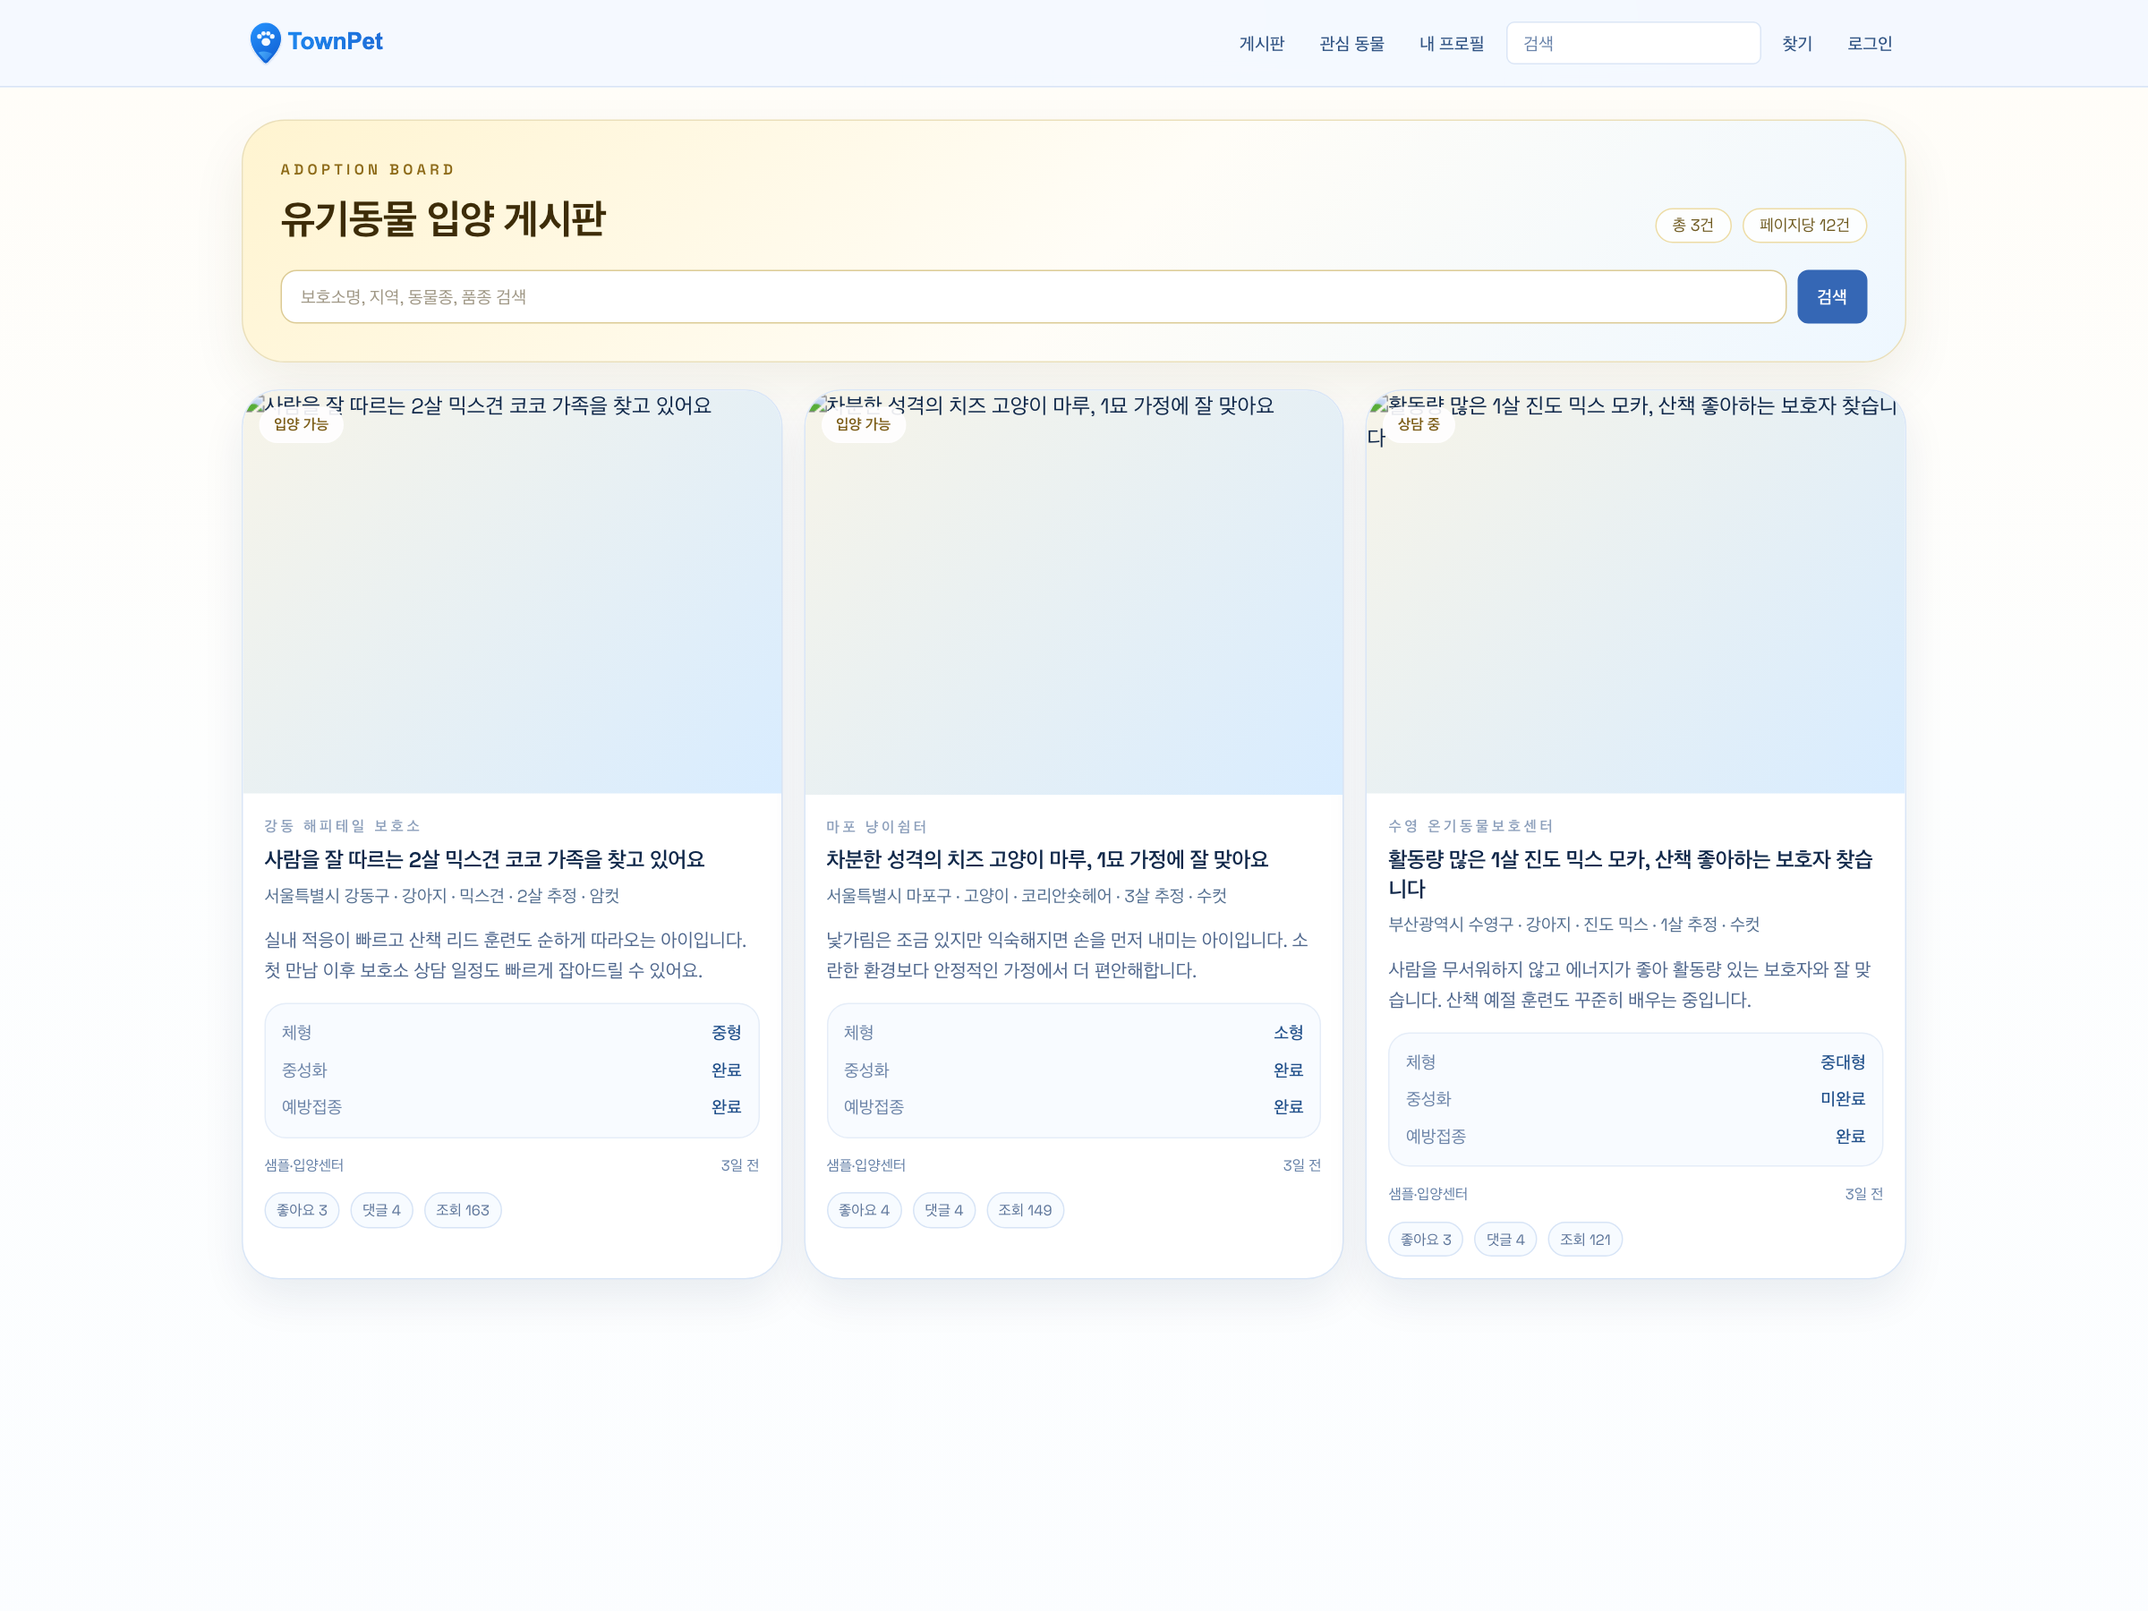
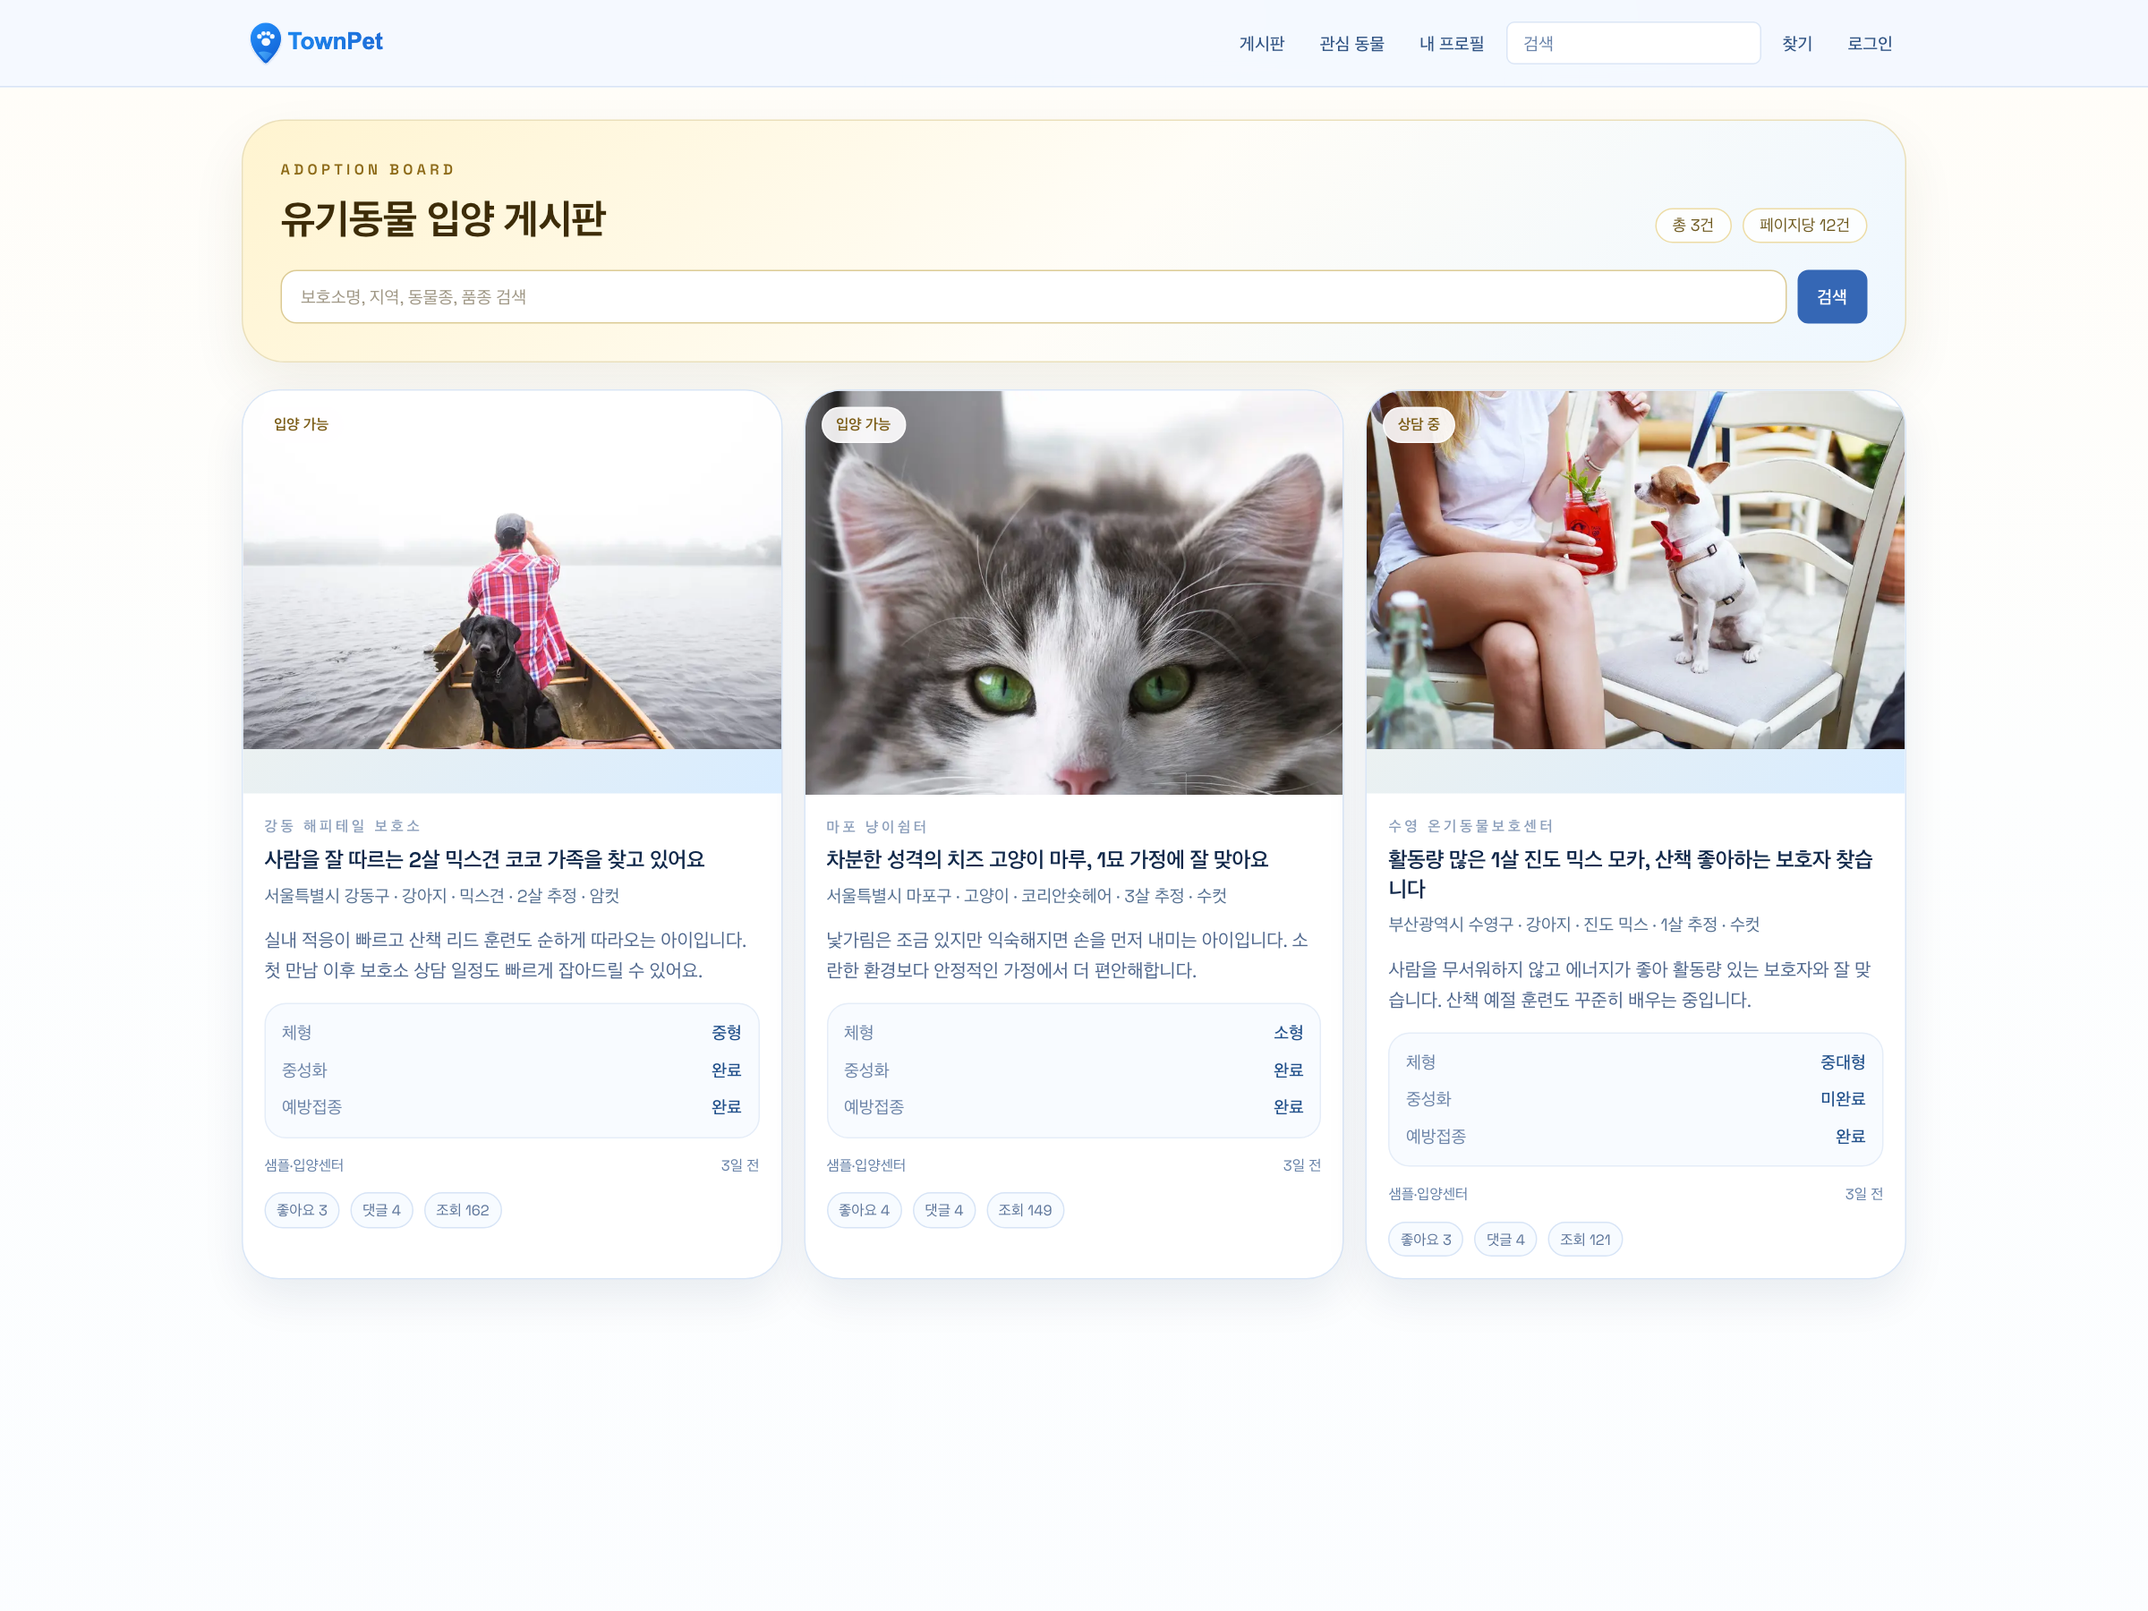
Refine README positioning and adoption screenshots

diff --git a/README.md b/README.md
@@ -4,76 +4,77 @@
 
 [라이브 데모](https://townpet.vercel.app) · [개발 계획](./PLAN.md) · [실행 로그](./PROGRESS.md)
 
-TownPet은 단순 CRUD 토이 프로젝트가 아니라, 실제 서비스처럼 `피드 · 검색 · 인증 · 신고/제재 · 관리자 도구 · 운영 대시보드`까지 한 흐름으로 닫은 프로젝트입니다.
-특히 이 프로젝트는 AI를 자동완성 도구가 아니라, **문제 분해 → 구현 → 테스트 → 배포 → 운영 개선**까지 함께 돌리는 개발 시스템으로 사용한 점이 핵심입니다.
+TownPet은 단순 커뮤니티가 아니라, 반려인이 `병원 · 입양 · 산책 · 거래 · 분실` 같은 상황별 정보를 더 빨리 찾고 더 신뢰할 수 있게 만드는 로컬 반려 플랫폼을 목표로 한 프로젝트입니다.
+핵심은 AI를 자동완성 도구가 아니라, **문제 분해 → 구현 → 테스트 → 배포 → 운영 개선**까지 함께 돌리는 개발 시스템으로 사용했다는 점입니다.
 
-## 왜 시작했는가
+## 핵심 아이디어
 
-- 예비창업패키지 관점에서, 지역 반려인은 병원·돌봄·산책·분실·거래 정보를 여러 채널에서 따로 찾아야 해서 시간과 신뢰 비용이 크다는 문제를 먼저 봤습니다.
-- TownPet은 범용 반려 앱이 아니라, `지역 + 상황` 중심으로 지금 바로 실행 가능한 정보를 더 빨리 찾게 만드는 로컬 반려 커뮤니티/플랫폼을 목표로 했습니다.
-- 그래서 기능 수를 늘리기보다 `템플릿 기반 글쓰기`, `Local / Global 분리`, `신고/제재/운영 로그` 같은 신뢰 장치를 제품 기본값으로 먼저 설계했습니다.
+- 반려 정보는 병원 후기, 입양 공고, 산책 코스, 중고 거래처럼 맥락이 강한데, 대부분 한 채널 안에서 뒤섞여 있어 탐색 비용이 큽니다.
+- TownPet은 이 문제를 `지역 + 상황` 단위로 다시 쪼개서, 범용 게시판이 아니라 **행동으로 이어지는 정보 화면**을 만드는 방향으로 접근했습니다.
+- 그래서 자유글보다 `구조화 게시판`, 조회수보다 `신뢰 장치`, 단순 피드보다 `운영 가능한 커뮤니티 구조`를 먼저 설계했습니다.
 
-## 한눈에 보기
+## 왜 사업적으로 흥미로운가
+
+- `지역 커뮤니티`와 `상황별 정보 탐색`을 한 제품 안에서 연결할 수 있습니다.
+- 입양, 병원, 산책, 거래처럼 intent가 분명한 카테고리는 이후 추천, 광고, 제휴, 거래 상태 머신으로 확장하기 좋습니다.
+- 단순 콘텐츠 모음이 아니라, 구조화된 UGC와 운영 로그가 계속 쌓이는 형태라 서비스와 데이터가 함께 커집니다.
+
+## 대표 화면
+
+<table>
+  <tr>
+    <td width="50%" valign="top">
+      <img src="./docs/assets/readme/feed-desktop.png" alt="TownPet 전체 피드" width="100%" />
+      <p><strong>전체 피드</strong><br />게시판 태그, 정렬, 기간 필터가 한 화면에 보이는 커뮤니티 기본 화면</p>
+    </td>
+    <td width="50%" valign="top">
+      <img src="./docs/assets/readme/search-desktop.png" alt="TownPet 게시글 검색" width="100%" />
+      <p><strong>게시글 검색</strong><br />검색 결과, 자동완성, zero-result 운영 개선이 연결되는 검색 화면</p>
+    </td>
+  </tr>
+  <tr>
+    <td width="50%" valign="top">
+      <img src="./docs/assets/readme/adoption-desktop.png" alt="TownPet 유기동물 입양 게시판" width="100%" />
+      <p><strong>유기동물 입양 게시판</strong><br />보호소, 지역, 품종 같은 구조화 정보를 카드 중심으로 보여주는 전용 게시판</p>
+    </td>
+    <td width="50%" valign="top">
+      <img src="./docs/assets/readme/market-desktop.png" alt="TownPet 중고 공동구매 게시판" width="100%" />
+      <p><strong>중고 · 공동구매 게시판</strong><br />장터/공동구매 타입이 피드 필터와 함께 동작하는 거래형 게시판 화면</p>
+    </td>
+  </tr>
+  <tr>
+    <td width="50%" valign="top">
+      <img src="./docs/assets/readme/post-detail-desktop.png" alt="TownPet 글 상세와 댓글" width="100%" />
+      <p><strong>글 상세와 댓글/반응</strong><br />글 본문, 구조화 메타 정보, 댓글, 반응까지 한 흐름으로 보여주는 상세 화면</p>
+    </td>
+    <td width="50%" valign="top" align="center">
+      <img src="./docs/assets/readme/adoption-mobile.png" alt="TownPet 모바일 입양 게시판" width="72%" />
+      <p><strong>모바일 사용성</strong><br />모바일에서도 검색과 게시판 탐색이 바로 가능하도록 헤더 밀도와 진입성을 정리한 화면</p>
+    </td>
+  </tr>
+</table>
+
+## 제품으로서 보여주는 것
+
+### 1. 커뮤니티를 정보 탐색 제품으로 바꾼 구조
+- `LOCAL / GLOBAL` 피드와 검색을 나눠 지역 커뮤니티 감각과 확장성을 같이 가져가도록 설계했습니다.
+- 병원 후기, 입양, 산책, 거래, 봉사처럼 서로 다른 맥락을 게시판과 구조화 필드로 분리했습니다.
+
+### 2. 신뢰를 기본값으로 둔 운영형 구조
+- Kakao / Naver / Credentials 인증, 신고/차단/제재, 직접 모더레이션, 관리자 감사 로그를 제품 기본값으로 넣었습니다.
+- `/admin/ops`, health check, cleanup workflow까지 포함해 배포 후에도 운영 가능한 상태를 목표로 했습니다.
+
+### 3. AI를 실제 개발 방식으로 내재화한 프로젝트
+- 작업을 작은 사이클로 분해하고, `PLAN.md`와 `PROGRESS.md`로 계획/실행/검증 로그를 남겼습니다.
+- 기능 추가뿐 아니라 보안, migration chain, 운영 가드, 모바일 사용성까지 AI 에이전트와 함께 반복적으로 닫았습니다.
+
+## 기술적으로 한 일
 
 - `LOCAL / GLOBAL` 정책이 분리된 커뮤니티 피드와 검색
 - Kakao / Naver / Credentials 인증, 온보딩, 세션/권한 제어
 - 신고, 차단, 제재, 직접 모더레이션, 관리자 감사 로그
 - 검색 자동완성, 구조화 검색, zero-result 분석, `/admin/ops` 운영 대시보드
 - Prisma migration, health check, retention cleanup, CI quality gate까지 포함한 운영형 구조
-
-## 대표 화면
-
-**전체 피드**
-
-<img src="./docs/assets/readme/feed-desktop.png" alt="TownPet 전체 피드" width="1100" />
-
-- 게시판 태그, 정렬, 기간 필터가 한 화면에 보이는 커뮤니티 기본 화면
-
-**게시글 검색**
-
-<img src="./docs/assets/readme/search-desktop.png" alt="TownPet 게시글 검색" width="1100" />
-
-- 검색 결과, 자동완성, zero-result 운영 개선이 연결되는 검색 화면
-
-**유기동물 입양 게시판**
-
-<img src="./docs/assets/readme/adoption-desktop.png" alt="TownPet 유기동물 입양 게시판" width="1100" />
-
-- 보호소, 지역, 품종 같은 구조화 정보를 카드 중심으로 보여주는 전용 게시판
-
-**중고 · 공동구매 게시판**
-
-<img src="./docs/assets/readme/market-desktop.png" alt="TownPet 중고 공동구매 게시판" width="1100" />
-
-- 장터/공동구매 타입이 피드 필터와 함께 동작하는 거래형 게시판 화면
-
-**글 상세와 댓글/반응**
-
-<img src="./docs/assets/readme/post-detail-desktop.png" alt="TownPet 글 상세와 댓글" width="1100" />
-
-- 글 본문, 구조화 메타 정보, 댓글, 반응까지 한 흐름으로 보여주는 상세 화면
-
-**모바일 사용성**
-
-<p align="center">
-  <img src="./docs/assets/readme/adoption-mobile.png" alt="TownPet 모바일 입양 게시판" width="420" />
-</p>
-
-- 모바일에서도 검색과 게시판 탐색이 바로 가능하도록 헤더 밀도와 진입성을 정리했다.
-
-## 이 프로젝트가 보여주는 것
-
-### 1. 기능 구현보다 운영 가능한 상태까지 만든 프로젝트
-- 커뮤니티 핵심 기능뿐 아니라 신고, 제재, 관리자 허브, `/admin/ops`, health check, cleanup workflow까지 포함했습니다.
-- 배포 후에도 검색 통계, auth audit, moderation log를 보고 운영할 수 있게 만들었습니다.
-
-### 2. AI를 실제 개발 방식으로 내재화한 프로젝트
-- 작업을 작은 사이클로 분해하고, `PLAN.md`와 `PROGRESS.md`로 계획/실행/검증 로그를 누적했습니다.
-- 기능 추가뿐 아니라 보안, migration chain, 운영 가드, 모바일 사용성까지 AI 에이전트와 함께 반복적으로 닫았습니다.
-
-### 3. 품질 기준이 있는 프로젝트
-- 구현 순서를 `Prisma -> Zod -> Service -> Action/Route -> UI -> Tests`로 고정했습니다.
-- lint, typecheck, unit/E2E, migration 검증, health check까지 품질 게이트를 운영했습니다.
 
 ## 기술 스택
 

diff --git a/PROGRESS.md b/PROGRESS.md
@@ -29,6 +29,30 @@
 - 메모
   - README는 계속 지원용 랜딩 문서 성격을 유지해야 하므로, 사업 배경은 길게 늘리지 않고 문제/접근/차별화만 바로 읽히게 두었다.
 
+### 2026-04-06: Cycle 402 완료 (README 사업 아이디어 강조 및 2열 화면 구성 정리)
+- 완료 내용
+  - 루트 [README.md](/Users/alex/project/townpet/README.md)에서 직접적인 지원사업 언급을 제거했다.
+  - README 상단 메시지를 `기술 소개`보다 `제품 아이디어`, `왜 사업적으로 흥미로운가`가 먼저 보이도록 재배치했다.
+  - 대표 화면 섹션은 큰 단일 이미지 나열 대신 한 줄 두 장씩 보는 2열 레이아웃으로 재구성했다.
+  - 기술적 설명은 `제품으로서 보여주는 것`, `기술적으로 한 일`, `AI-native 개발 방식` 순서로 뒤로 내렸다.
+- 검증 결과
+  - `git diff --check` 통과
+- 메모
+  - README는 이제 지원용 포트폴리오 관점에서 `무엇을 만들었는가`보다 `왜 이 아이디어가 흥미로운가`가 먼저 읽히도록 정리했다.
+
+### 2026-04-06: Cycle 401 완료 (README 입양 게시판 웹/모바일 캡처 최종 갱신)
+- 완료 내용
+  - production 데모 콘텐츠 재시드 이후 실제 공개 사이트 기준으로 README용 입양 게시판 캡처를 다시 생성했다.
+    - [adoption-desktop.png](/Users/alex/project/townpet/docs/assets/readme/adoption-desktop.png)
+    - [adoption-mobile.png](/Users/alex/project/townpet/docs/assets/readme/adoption-mobile.png)
+  - 웹/모바일 캡처 모두 카드 이미지가 깨진 SVG placeholder 대신 실제 로컬 래스터 예시 사진으로 노출되는 상태를 확인했다.
+  - 이번 요청 범위는 입양 게시판 웹/모바일 캡처 복구였기 때문에, 상세 화면 스크린샷은 기존 버전을 유지했다.
+- 검증 결과
+  - production 공개 페이지에서 입양 게시판 카드 이미지의 `naturalWidth > 0`를 확인했다.
+  - `git diff --check` 통과
+- 메모
+  - README의 입양 게시판 대표 화면 두 장은 이제 실제 더미 사진이 보이는 최신 production 상태와 일치한다.
+
 ### 2026-04-06: Cycle 399 완료 (README 대표 화면 스크린샷 확대 및 다양화)
 - 완료 내용
   - 루트 [README.md](/Users/alex/project/townpet/README.md)의 `대표 화면` 섹션을 작은 3칸 표에서 큰 섹션형 레이아웃으로 바꿨다.

diff --git a/PLAN.md b/PLAN.md
@@ -27,6 +27,16 @@
 
 ## Active Plan
 
+### Cycle 402: README 사업 아이디어 강조 및 2열 화면 구성 정리 (완료)
+| 작업명 | 담당 에이전트 | 우선순위 | 상태 | 완료기준(DoD) | 의존성 |
+|---|---|---|---|---|---|
+| 루트 README에서 직접적인 지원사업 언급을 제거하고, 사업 아이디어/제품 차별화 메시지를 앞에 배치한 뒤 대표 화면은 2열 레이아웃으로 줄여 가독성을 높인다 | Codex | P2 | `done` | `README.md` 상단에는 사업 아이디어와 제품 차별화가 먼저 보이고, 대표 화면은 한 줄 2장 배열로 재구성되며, 관련 결과가 `PROGRESS.md`에 기록된다 | `README.md`, `PLAN.md`, `PROGRESS.md`, `docs/assets/readme/*` |
+
+### Cycle 401: README 입양 게시판 웹/모바일 캡처 최종 갱신 (완료)
+| 작업명 | 담당 에이전트 | 우선순위 | 상태 | 완료기준(DoD) | 의존성 |
+|---|---|---|---|---|---|
+| production 데모 콘텐츠 재시드 후 README에 쓰는 입양 게시판 웹/모바일 스크린샷을 실제 렌더 기준으로 다시 캡처하고, 깨지던 이미지가 더 이상 보이지 않도록 갱신한다 | Codex | P2 | `done` | `docs/assets/readme/adoption-desktop.png`, `docs/assets/readme/adoption-mobile.png`가 production 기준 최신 캡처로 갱신되고, 카드 이미지가 실제 사진으로 정상 노출되며 `PROGRESS.md`에 결과가 기록된다 | `docs/assets/readme/adoption-desktop.png`, `docs/assets/readme/adoption-mobile.png`, `PLAN.md`, `PROGRESS.md` |
+
 ### Cycle 400: 입양 게시판 데모 이미지 복구 및 README 캡처 재갱신 (완료)
 | 작업명 | 담당 에이전트 | 우선순위 | 상태 | 완료기준(DoD) | 의존성 |
 |---|---|---|---|---|---|
